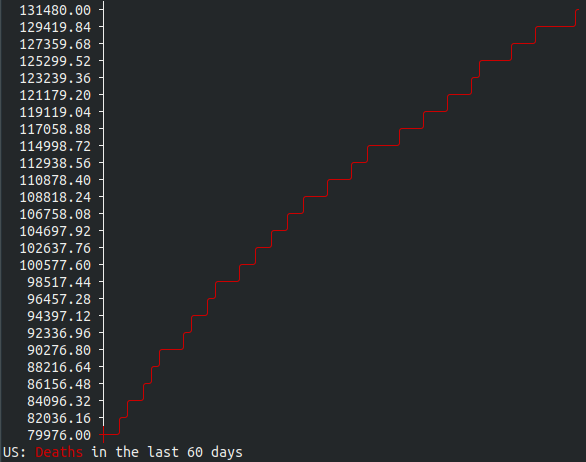
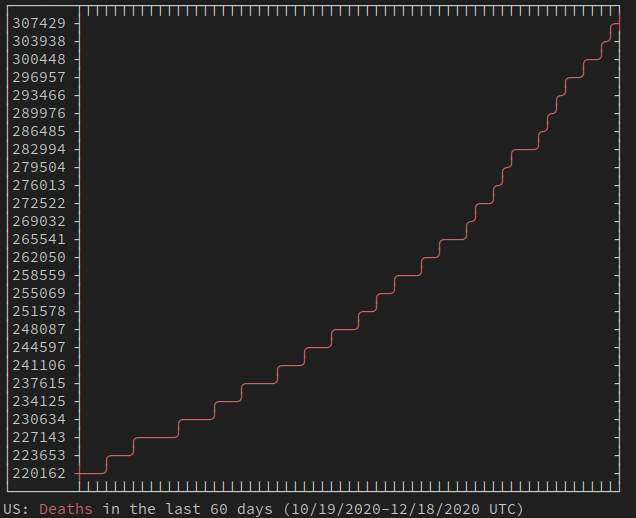
Update README and assets

diff --git a/README.md b/README.md
@@ -28,7 +28,8 @@ ASCII graph data for COVID-19. A nice way to get current Coronavirus data in you
 -   country: Target country name or code
 -   disableCases: Remove total case data from results
 -   disableRecovered: Remove recovered case data from results
--   disableDeaths: emove deaths data from results
+-   disableDeaths: Remove deaths data from results
+-   disableBox: Remove graph enclosing box
 
 ## Command Line Options
 
